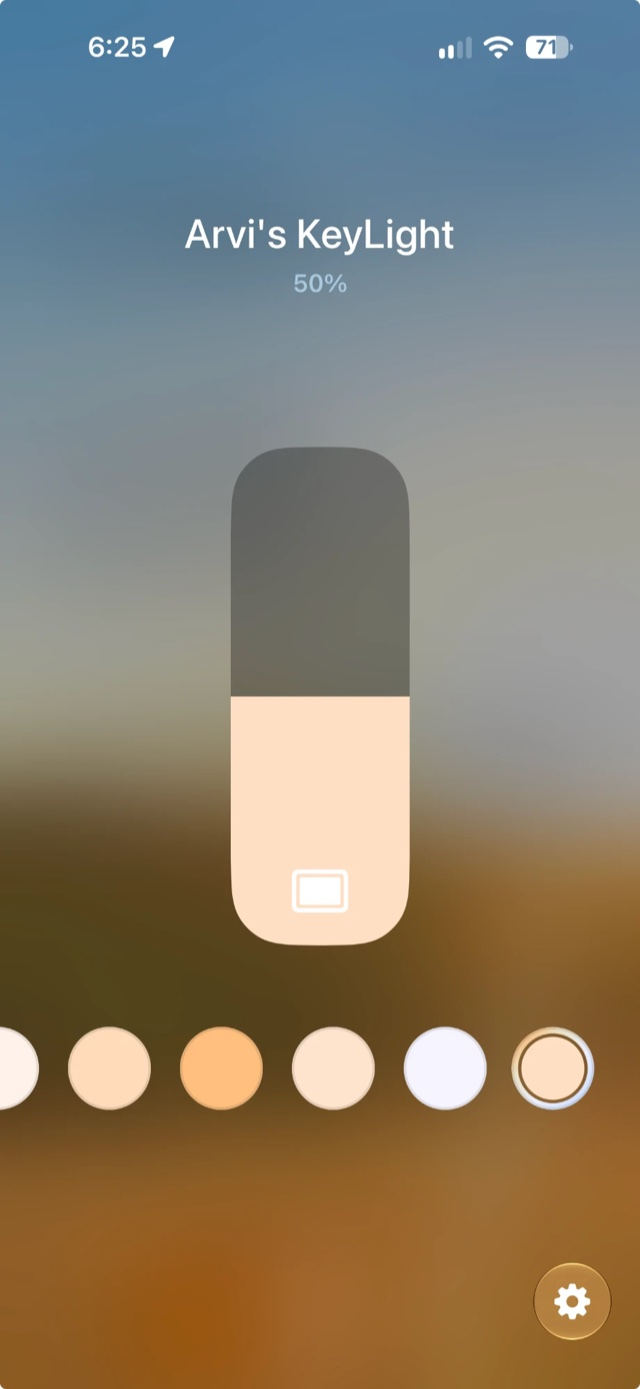
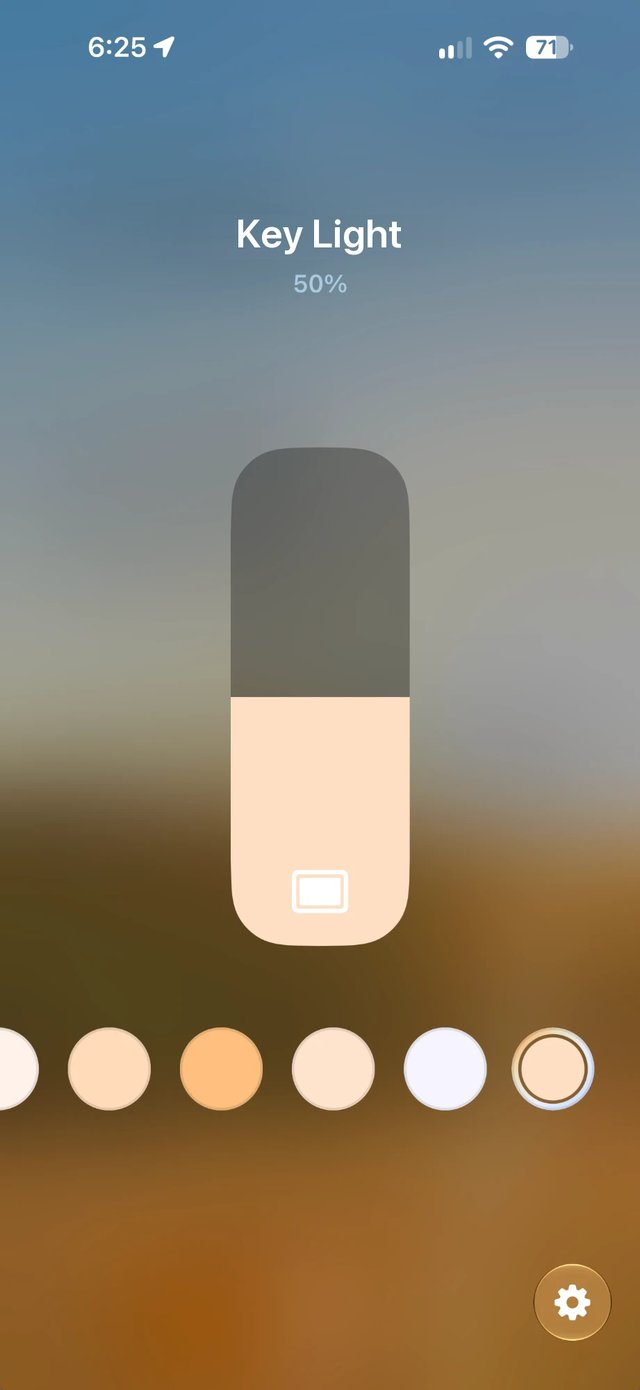
Remove personal details from the README and tests
- Use a generic light name and IP address in README examples, tests and messages
- Swap the real light's serial number in test fixtures for a placeholder
- Show a generic light name in the Home app screenshots
- Drop the maintainers section from the README

Changed region(s): [[0.2812, 0.1548, 0.7188, 0.1857]]

diff --git a/internal/homekit/homekit_test.go b/internal/homekit/homekit_test.go
@@ -17,8 +17,8 @@ import (
 // keyLight is the light a fakeLight plays.
 var keyLight = elgato.AccessoryInfo{
 	ProductName:     "Elgato Key Light Air",
-	SerialNumber:    "CW30K1A07261",
-	DisplayName:     "Arvi's KeyLight",
+	SerialNumber:    "CW12A3B45678",
+	DisplayName:     "Desk Light",
 	FirmwareVersion: "1.0.3",
 }
 
@@ -86,8 +86,8 @@ func TestLightMirrorsDevice(t *testing.T) {
 	if !l.on.Value() || l.brightness.Value() != 40 || l.temperature.Value() != 213 {
 		t.Errorf("HomeKit holds %s, want on, 40%%, 213 mireds", l)
 	}
-	if got := l.acc.Info.Name.Value(); got != "Arvi's KeyLight" {
-		t.Errorf("accessory name = %q, want Arvi's KeyLight", got)
+	if got := l.acc.Info.Name.Value(); got != "Desk Light" {
+		t.Errorf("accessory name = %q, want Desk Light", got)
 	}
 }
 
@@ -95,9 +95,9 @@ func TestLightOfflineAtStartupGetsItsName(t *testing.T) {
 	f := &fakeLight{state: elgato.LightState{On: 1, Brightness: 40, Temperature: 213}}
 	d, _ := serve(t, f)
 	// What the bridge knows about a cached light that didn't answer at startup.
-	d.Name, d.Info = "arvi-s-keylight", &elgato.AccessoryInfo{SerialNumber: keyLight.SerialNumber}
+	d.Name, d.Info = "desk-light", &elgato.AccessoryInfo{SerialNumber: keyLight.SerialNumber}
 	l := newLight(d, 2)
-	if got := l.acc.Info.Name.Value(); got != "arvi s keylight" {
+	if got := l.acc.Info.Name.Value(); got != "desk light" {
 		t.Fatalf("name before the light answers = %q, want the config name", got)
 	}
 
@@ -105,8 +105,8 @@ func TestLightOfflineAtStartupGetsItsName(t *testing.T) {
 		t.Fatal(err)
 	}
 	info := l.acc.Info
-	if info.Name.Value() != "Arvi's KeyLight" || info.Model.Value() != "Elgato Key Light Air" || info.FirmwareRevision.Value() != "1.0.3" {
-		t.Errorf("after the light answers: name %q, model %q, firmware %q; want Arvi's KeyLight, Elgato Key Light Air, 1.0.3",
+	if info.Name.Value() != "Desk Light" || info.Model.Value() != "Elgato Key Light Air" || info.FirmwareRevision.Value() != "1.0.3" {
+		t.Errorf("after the light answers: name %q, model %q, firmware %q; want Desk Light, Elgato Key Light Air, 1.0.3",
 			info.Name.Value(), info.Model.Value(), info.FirmwareRevision.Value())
 	}
 }

diff --git a/internal/cmd/homekit_test.go b/internal/cmd/homekit_test.go
@@ -11,12 +11,12 @@ import (
 
 func TestDaemonPlistXML(t *testing.T) {
 	plist := daemonPlistXML("/Users/a&b/go/bin/elgato", []string{"--light", "key & left", "homekit"},
-		"arvi", "/Users/a&b", "/Users/a&b/Library/Logs/elgato-homekit.log")
+		"sam", "/Users/a&b", "/Users/a&b/Library/Logs/elgato-homekit.log")
 	for _, want := range []string{
 		"<string>ventures.ar.elgato.homekit</string>",
 		"<array>\n\t\t<string>/Users/a&amp;b/go/bin/elgato</string>\n\t\t<string>--light</string>\n" +
 			"\t\t<string>key &amp; left</string>\n\t\t<string>homekit</string>\n\t</array>",
-		"<key>UserName</key>\n\t<string>arvi</string>",
+		"<key>UserName</key>\n\t<string>sam</string>",
 		"<key>HOME</key>\n\t\t<string>/Users/a&amp;b</string>",
 		"<key>StandardErrorPath</key>\n\t<string>/Users/a&amp;b/Library/Logs/elgato-homekit.log</string>",
 	} {
@@ -47,8 +47,8 @@ func TestDaemonArgsKeepInstallFlags(t *testing.T) {
 		t.Errorf("no flags: daemonArgs() = %q, want [homekit]", got)
 	}
 
-	opts.host, opts.port, opts.light = "10.0.0.11", 9124, "key-left"
-	want := []string{"--host", "10.0.0.11", "--port", "9124", "--light", "key-left", "homekit"}
+	opts.host, opts.port, opts.light = "192.168.1.50", 9124, "key-left"
+	want := []string{"--host", "192.168.1.50", "--port", "9124", "--light", "key-left", "homekit"}
 	if got := daemonArgs(); !slices.Equal(got, want) {
 		t.Errorf("with flags: daemonArgs() = %q, want %q", got, want)
 	}

diff --git a/internal/homekit/setup_test.go b/internal/homekit/setup_test.go
@@ -75,9 +75,9 @@ func TestAccessoryIDsAreStable(t *testing.T) {
 
 func TestAccessoryName(t *testing.T) {
 	cases := map[string]string{
-		"Arvi's KeyLight":     "Arvi's KeyLight",
-		"Arvi’s KeyLight":     "Arvi's KeyLight", // curly apostrophe from iOS
-		"arvi-s-keylight":     "arvi s keylight", // config slug
+		"Sam's KeyLight":      "Sam's KeyLight",
+		"Sam’s KeyLight":      "Sam's KeyLight", // curly apostrophe from iOS
+		"sam-s-keylight":      "sam s keylight", // config slug
 		" Key_Light (Left)! ": "Key Light Left",
 		"'Desk'":              "Desk",
 		"Café Lamp 2":         "Café Lamp 2",

diff --git a/internal/cmd/resolve.go b/internal/cmd/resolve.go
@@ -17,7 +17,7 @@ var errNoLights = errors.New(
 	"no Elgato lights found\n" +
 		"  • make sure the light is powered and on the same network/Wi-Fi\n" +
 		"  • try: elgato --refresh list\n" +
-		"  • or target it directly: elgato --host 10.0.0.11 on")
+		"  • or target it directly: elgato --host 192.168.1.50 on")
 
 // resolveDevices returns the set of lights a command should act on, honoring
 // --host, --light and --refresh. Strategy: use cached addresses first (fast),

diff --git a/internal/elgato/client.go b/internal/elgato/client.go
@@ -23,7 +23,7 @@ type Device struct {
 	Info *AccessoryInfo // populated by FetchInfo
 }
 
-// BaseURL returns the device's API root, e.g. http://10.0.0.11:9123.
+// BaseURL returns the device's API root, e.g. http://192.168.1.50:9123.
 func (d *Device) BaseURL() string {
 	port := d.Port
 	if port == 0 {

diff --git a/README.md b/README.md
@@ -31,8 +31,8 @@ Or, with Go 1.26 or later: `go install github.com/arventures/elgato@latest`.
 
 ```console
 $ elgato list
-NAME             SERIAL        HOST       PORT  FIRMWARE
-Arvi's KeyLight  CW12A3B45678  10.0.0.11  9123  1.0.3
+NAME       SERIAL        HOST          PORT  FIRMWARE
+Key Light  CW12A3B45678  192.168.1.50  9123  1.0.3
 ```
 
 Nothing listed? Make sure the light is powered on and on the same network as your Mac, then run it again.
@@ -41,7 +41,7 @@ Nothing listed? Make sure the light is powered on and on the same network as you
 
 ```console
 $ elgato homekit install
-Found Arvi's KeyLight (10.0.0.11)
+Found Key Light (192.168.1.50)
 Adding a launchd daemon needs admin rights, so sudo may ask for your password.
 Password:
 Installed. The bridge is running and will start at every boot.
@@ -121,7 +121,7 @@ Global flags (work on any command):
 
 | Flag | Purpose |
 | --- | --- |
-| `--host 10.0.0.11` | Target a light directly by IP, skipping discovery |
+| `--host 192.168.1.50` | Target a light directly by IP, skipping discovery |
 | `-l, --light <name>` | Act on a single light (by name or serial) |
 | `--refresh` | Force mDNS discovery instead of using cached addresses |
 | `--json` | Machine-readable output |
@@ -137,8 +137,8 @@ Shell completion is available via `elgato completion <bash|zsh|fish>` (Homebrew 
 Every command that prints state (`status`, `on`, `temp`, …) shows a `COLOR` column with the approximate on-screen color of the light's color temperature — warm amber down near 2900K, a cool bluish white up near 7000K — alongside its `#rrggbb` hex value:
 
 ```text
-NAME             HOST       POWER  BRIGHTNESS  TEMPERATURE  COLOR
-Arvi's KeyLight  10.0.0.11  on     50%         4700K        ███ #ffdec3
+NAME       HOST          POWER  BRIGHTNESS  TEMPERATURE  COLOR
+Key Light  192.168.1.50  on     50%         4700K        ███ #ffdec3
 ```
 
 The swatch uses 24-bit ("truecolor") ANSI and is shown only when writing to a terminal. It is suppressed automatically when piping output, when the [`NO_COLOR`](https://no-color.org) environment variable is set, or with `--color never`; force it on with `--color always`. The `--json` output includes the value as a `color` field.
@@ -157,7 +157,7 @@ The swatch uses 24-bit ("truecolor") ANSI and is shown only when writing to a te
 lights:
   key-left:
     serial: CW12A3B45678   # stable identity, from `elgato list`
-    host: 10.0.0.11        # last known address (auto-refreshed)
+    host: 192.168.1.50     # last known address (auto-refreshed)
     port: 9123
 discovery_timeout: 2s
 ```
@@ -177,28 +177,6 @@ go vet ./...
 ```
 
 The pure logic (Kelvin↔mireds conversion, brightness parsing, request shape) lives in `internal/elgato` and is unit-tested without hardware. Network code (HTTP client, mDNS) is isolated in `internal/elgato` and `internal/discovery`. The HomeKit bridge lives in `internal/homekit` and is tested against a fake light served by `httptest`.
-
-## Releasing (maintainers)
-
-Releases are automated with [GoReleaser](https://goreleaser.com) via GitHub Actions. One-time setup:
-
-1. Create a second GitHub repo named **`homebrew-elgato`** (this is the tap).
-2. Create a fine-grained personal access token with access to only that tap repo and **Contents: Read and write**. Save it to **this** repo as the Actions secret **`TAP_GITHUB_TOKEN`**:
-
-   ```console
-   gh secret set TAP_GITHUB_TOKEN --repo arventures/elgato
-   ```
-
-   It prompts for the value, so the token never lands in your shell history.
-
-Then cut a release by pushing a tag:
-
-```console
-git tag v0.3.0
-git push origin v0.3.0
-```
-
-The workflow builds macOS/Linux binaries (Intel + Apple silicon), publishes a GitHub Release, and pushes an updated Homebrew **cask** to the tap (Homebrew now prefers casks for pre-built binaries; casks are macOS-only). Validate config locally with `goreleaser check` and dry-run with `goreleaser release --snapshot --clean`.
 
 ## Disclaimer
 
